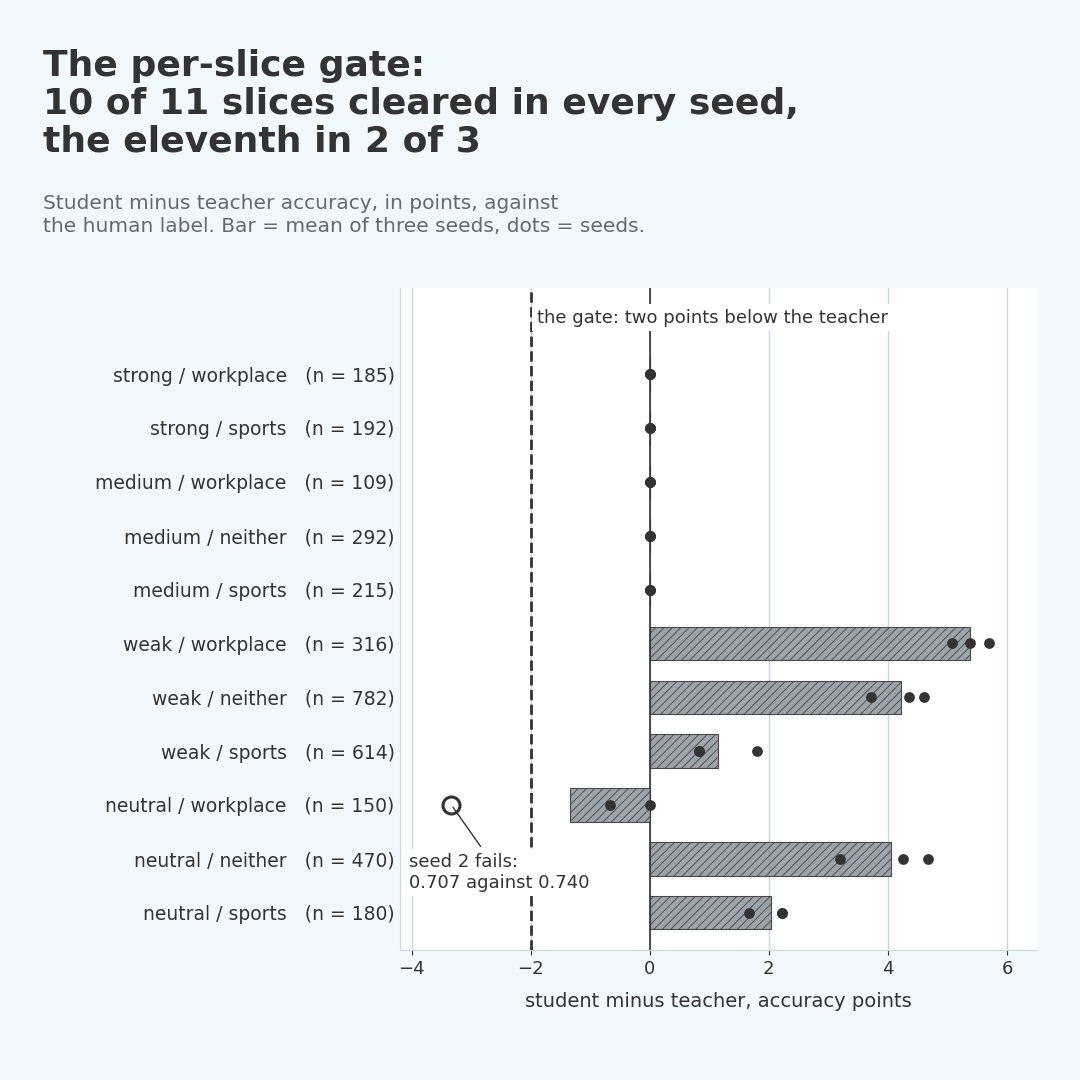
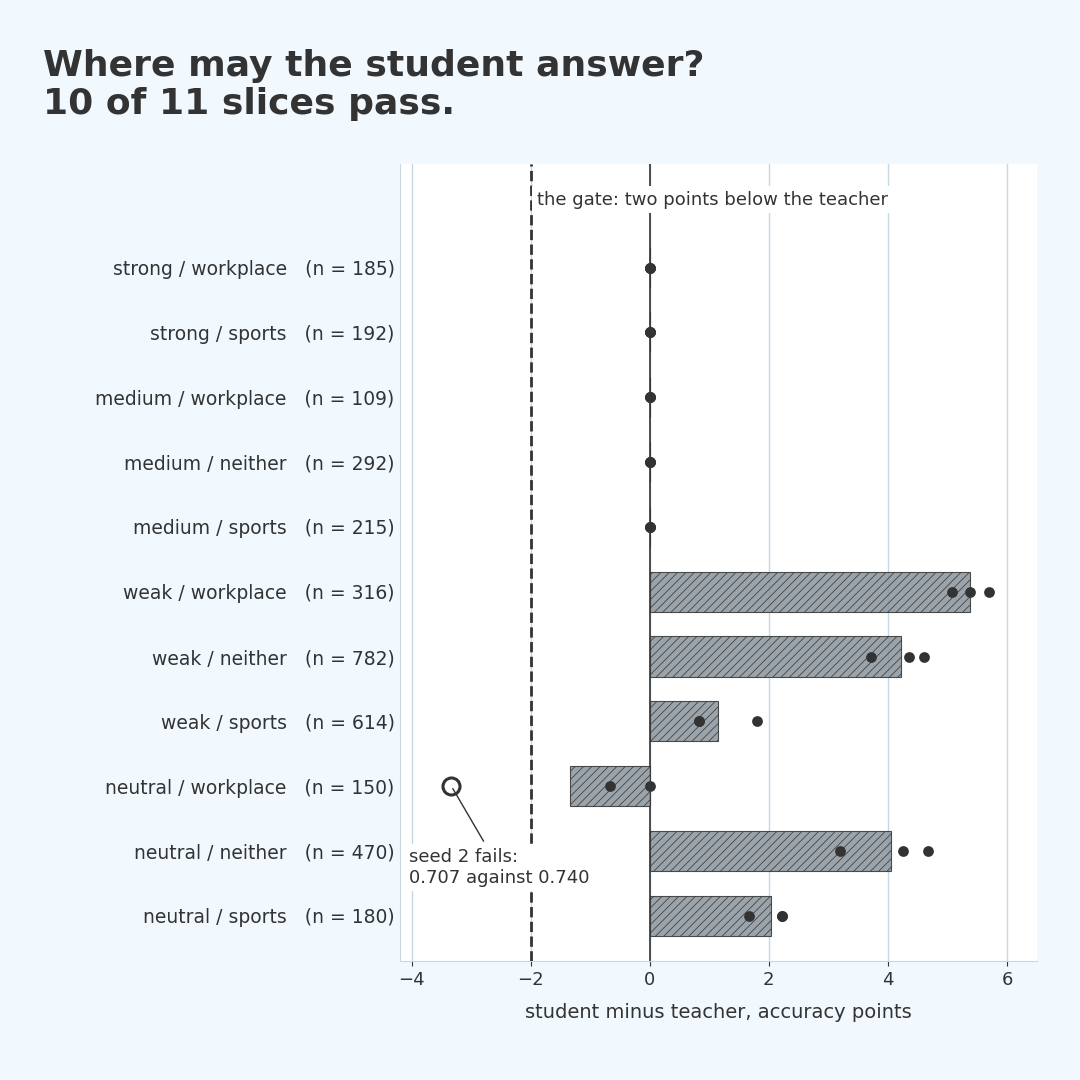
Pin site content: simplified Jev series charts; refresh social images

diff --git a/scripts/generate-jev-vs-laya-charts.py b/scripts/generate-jev-vs-laya-charts.py
@@ -104,6 +104,7 @@ def style(engine_colour, method):
 
 
 def new_figure(layout, title, subtitle, nrows=1, ncols=1):
+    subtitle = ""   # one line to land on social; captions carry the rest
     size, scale, orient, footer = LAYOUTS[layout]
     if orient == "h" and ncols > 1:
         nrows, ncols = ncols, 1
@@ -126,7 +127,7 @@ def new_figure(layout, title, subtitle, nrows=1, ncols=1):
              fontsize=13.5 * scale, color=MUTED, va="top", ha="left", linespacing=1.3)
     if footer:
         pass
-    sub_lines = wrap(subtitle, wrap_at + 24).count("\n") + 1
+    sub_lines = 0
     top = (0.965 - lines * (0.036 if tall else 0.058) - 0.008
            - sub_lines * (0.021 if tall else 0.03) - (0.035 if tall else 0.05))
     return fig, axes, scale, orient, top
@@ -181,24 +182,33 @@ def legend(fig, scale, y, entries=("alone", "layer", "tuned"), ncol=3, x=0.06):
 
 
 def reclaim_bottom(fig, floor=0.11):
-    """Footers are gone (captions carry sources), so stretch the panels down into that space.
-    A figure-level legend under the panels keeps its place and raises the floor."""
+    """Subtitles and footers are gone (the article captions carry detail), so stretch the panels
+    into that space: up to just under the title block, down to just above the bottom edge.
+    A figure-level legend keeps its place and moves the limit."""
     axes = [a for a in fig.axes if a.get_visible()]
     if not axes:
         return
-    def anchor_y(legend):
-        box = legend.get_bbox_to_anchor().transformed(fig.transFigure.inverted())
-        return box.y0
-    if any(anchor_y(l) < 0.3 for l in fig.legends):
-        floor = max(floor, 0.2)   # a legend under the panels keeps its place
+    fig.canvas.draw()
+    inv = fig.transFigure.inverted()
+    ceiling = 1.0
+    for item in list(fig.texts) + list(fig.legends):
+        if hasattr(item, "get_text") and not item.get_text().strip():
+            continue
+        box = item.get_window_extent().transformed(inv)
+        if box.y0 > 0.5:
+            ceiling = min(ceiling, box.y0)
+        elif box.y1 < 0.3 and item in fig.legends:
+            floor = max(floor, box.y1 + 0.115)   # room for ticks and the axis label above it
+    titled = any(a.get_title(loc=loc) for a in axes for loc in ("left", "center", "right"))
+    ceiling -= 0.075 if titled else 0.04
     top = max(a.get_position().y1 for a in axes)
     low = min(a.get_position().y0 for a in axes)
-    if low <= floor + 0.01:
+    if ceiling <= low + 0.2:
         return
-    k = (top - floor) / (top - low)
+    k = (ceiling - floor) / (top - low)
     for a in axes:
         p = a.get_position()
-        a.set_position([p.x0, top - (top - p.y0) * k, p.width, p.height * k])
+        a.set_position([p.x0, ceiling - (top - p.y0) * k, p.width, p.height * k])
 
 
 def save(fig, name, layout):
@@ -239,12 +249,11 @@ def chart_paired(paired, arms, layout):
     gap1 = (paired[("jev", "layer")]["accuracy"] - paired[("laya", "layer")]["accuracy"]) * 100
     fig, axes, scale, orient, top = new_figure(
         layout,
-        f"The layer lifts both engines, and the gap widens from {gap0:.1f} to {gap1:.1f} points",
+        "Same feedback for both engines. Jev stays ahead.",
         "Held-out accuracy on the same 600 items. Same 140 labels, same refit points, same analyst "
         "proposal; only the engine that answers changes. One run; 600 items is about ±1.4 points.")
     ax = axes[0][0]
     bars(ax, orient, scale, paired_items(paired, "accuracy"), 0.5, 0.95, value_label="held-out accuracy")
-    legend(fig, scale, top + 0.012, entries=("alone", "layer"))
     footer = LAYOUTS[layout][3]
     note(fig, scale, "Source: Jev-Flywheel studies/laya_paired.jsonl. Axis starts at 0.5; the majority-class baseline is 0.566.",
          footer=footer)
@@ -255,14 +264,13 @@ def chart_paired(paired, arms, layout):
 def chart_calibration(paired, arms, layout):
     fig, axes, scale, orient, top = new_figure(
         layout,
-        "Both engines end well calibrated; Brier still favours Jev",
+        "Both engines end up well calibrated.",
         "Lower is better in both panels. Raw, Laya's calibration error was lower than Jev's on these 600 items. "
         "Brier rewards being confident and right, and Jev is right more often.",
         ncols=2)
     flat = list(axes.flat)
     bars(flat[0], orient, scale, paired_items(paired, "ece"), 0, 0.19, value_label="calibration error (ECE)")
     bars(flat[1], orient, scale, paired_items(paired, "brier"), 0, 0.23, value_label="Brier score")
-    legend(fig, scale, top + 0.012, entries=("alone", "layer"))
     footer = LAYOUTS[layout][3]
     note(fig, scale, "Source: Jev-Flywheel studies/laya_paired.jsonl, paper-600 rows, first and last version of each lineage.",
          footer=footer)
@@ -308,7 +316,7 @@ def chart_tiers(paired, arms, layout):
     tiers = ["strong", "medium", "weak", "neutral"]
     fig, axes, scale, orient, top = new_figure(
         layout,
-        "Fine-tuned Laya carries the easy tiers; DistilBERT is best on the neutral tier",
+        "Who wins depends on the difficulty.",
         "Held-out accuracy by difficulty tier, 600 items (72 strong, 106 medium, 277 weak, 145 neutral). "
         "Fine-tuned systems are 3-seed means. Tier cells are small; read gaps of a few points as noise.")
     ax = axes[0][0]
@@ -358,7 +366,7 @@ def chart_curve(paired, arms, layout):
               "sizes on disk so far; still running: " + ", ".join(f"{n:,}" for n in pending))
     fig, axes, scale, orient, top = new_figure(
         layout,
-        "At 140 random labels, fine-tuned Laya is already above both flywheel results",
+        "More labels help, then it flattens near 94%.",
         f"Arm C: full fine-tune on random pool draws, 3 seeds per size (dots), mean (line). Held-out accuracy, 600 items. "
         f"Showing {status}.")
     ax = axes[0][0]

diff --git a/scripts/generate-distilling-jev-into-a-classifier-charts.py b/scripts/generate-distilling-jev-into-a-classifier-charts.py
@@ -80,6 +80,7 @@ def mean(values):
 
 def new_figure(layout, title, subtitle, nrows=1, ncols=1, panel_titles=False, **grid):
     """A figure with a left-aligned title block; the axes start below it however many lines it has."""
+    subtitle = ""   # one line to land on social; captions carry the rest
     size, scale, footer = LAYOUTS[layout]
     fig, axes = plt.subplots(nrows, ncols, figsize=size, dpi=DPI, squeeze=False, **grid)
     fig.patch.set_facecolor(BACKGROUND)
@@ -91,7 +92,6 @@ def new_figure(layout, title, subtitle, nrows=1, ncols=1, panel_titles=False, **
     y -= (title.count("\n") + 1) * title_size * 1.22 / points + 0.012
     fig.text(0.04, y, subtitle, fontsize=sub_size, color=MUTED, va="top", ha="left",
              linespacing=1.3)
-    y -= (subtitle.count("\n") + 1) * sub_size * 1.4 / points
     y -= (0.075 if panel_titles else 0.035)
     fig.subplots_adjust(left=0.08, right=0.96, top=y, bottom=0.12 if not footer else 0.10)
     for ax in axes.flat:
@@ -112,24 +112,33 @@ def wrap_title(text, layout):
 
 
 def reclaim_bottom(fig, floor=0.11):
-    """Footers are gone (captions carry sources), so stretch the panels down into that space.
-    A figure-level legend under the panels keeps its place and raises the floor."""
+    """Subtitles and footers are gone (the article captions carry detail), so stretch the panels
+    into that space: up to just under the title block, down to just above the bottom edge.
+    A figure-level legend keeps its place and moves the limit."""
     axes = [a for a in fig.axes if a.get_visible()]
     if not axes:
         return
-    def anchor_y(legend):
-        box = legend.get_bbox_to_anchor().transformed(fig.transFigure.inverted())
-        return box.y0
-    if any(anchor_y(l) < 0.3 for l in fig.legends):
-        floor = max(floor, 0.2)   # a legend under the panels keeps its place
+    fig.canvas.draw()
+    inv = fig.transFigure.inverted()
+    ceiling = 1.0
+    for item in list(fig.texts) + list(fig.legends):
+        if hasattr(item, "get_text") and not item.get_text().strip():
+            continue
+        box = item.get_window_extent().transformed(inv)
+        if box.y0 > 0.5:
+            ceiling = min(ceiling, box.y0)
+        elif box.y1 < 0.3 and item in fig.legends:
+            floor = max(floor, box.y1 + 0.115)   # room for ticks and the axis label above it
+    titled = any(a.get_title(loc=loc) for a in axes for loc in ("left", "center", "right"))
+    ceiling -= 0.075 if titled else 0.04
     top = max(a.get_position().y1 for a in axes)
     low = min(a.get_position().y0 for a in axes)
-    if low <= floor + 0.01:
+    if ceiling <= low + 0.2:
         return
-    k = (top - floor) / (top - low)
+    k = (ceiling - floor) / (top - low)
     for a in axes:
         p = a.get_position()
-        a.set_position([p.x0, top - (top - p.y0) * k, p.width, p.height * k])
+        a.set_position([p.x0, ceiling - (top - p.y0) * k, p.width, p.height * k])
 
 
 def save(fig, name, layout):
@@ -149,8 +158,7 @@ def save(fig, name, layout):
 
 def chart_students(distill, layout):
     stacked = layout in ("portrait", "square")
-    title = wrap_title("Scored against the human label, | both distilled students beat "
-                       "their teacher", layout)
+    title = wrap_title("The small student beat || its hosted teacher.", layout)
     fig, axes, s = new_figure(
         layout, title,
         "3,521 held-out items, three seeds each (dot = mean, bar = min to max). Students are "
@@ -229,8 +237,7 @@ def chart_gate(distill, layout):
     slices.sort(key=lambda k: (order[k.split("/")[0]], k))
     topic = {"sports_or_recreation": "sports", "business_or_workplace": "workplace",
              "something_else": "neither"}
-    title = wrap_title("The per-slice gate: || 10 of 11 slices cleared in every seed, | the "
-                       "eleventh in 2 of 3", layout)
+    title = wrap_title("Where may the student answer? || 10 of 11 slices pass.", layout)
     fig, axes, s = new_figure(
         layout, title,
         "Student accuracy minus teacher accuracy, in points, against the human label. "
@@ -282,8 +289,7 @@ def chart_cascade(distill, layout):
     teacher = rows[0]["teacher_acc_vs_human"]
     casc = [mean([r["cascade"][t]["cascade_acc"] for r in rows]) for t in thresholds]
     cover = [mean([r["cascade"][t]["coverage"] for r in rows]) for t in thresholds]
-    title = wrap_title("The cascade never beat the student alone: | handing items back to "
-                       "the teacher cost accuracy", layout)
+    title = wrap_title("Handing hard items back to || the teacher didn't help.", layout)
     fig, axes, s = new_figure(
         layout, title,
         "Student answers when its calibrated confidence clears the threshold; the teacher takes "
@@ -331,8 +337,7 @@ def chart_label_source(distill, arm_d, layout):
         title = "Same 140 human labels, same DistilBERT:\n0.828 trained on them, 0.912 distilled"
         subtitle = "Accuracy against the human label on 3,521 held-out items, three seeds each"
     else:
-        title = wrap_title("Same 140 human labels, || same DistilBERT: | 0.828 trained on them, || "
-                           "0.912 distilled through the flywheel", layout)
+        title = wrap_title("Same 140 human labels. || Distilling beats training on them.", layout)
         subtitle = ("Accuracy against the human label on the same 3,521 held-out items. Bar = mean "
                     "of three seeds, whisker = min to max." if layout == "wide" else
                     "Accuracy against the human label, 3,521 held-out items.\nBar = mean of three "

diff --git a/scripts/generate-fine-tuning-jev-charts.py b/scripts/generate-fine-tuning-jev-charts.py
@@ -142,6 +142,7 @@ def scale(layout):
 
 
 def headline(fig, layout, title, subtitle):
+    subtitle = ""   # one line to land on social; captions carry the rest
     k = scale(layout)
     top = {"landscape": 0.945, "portrait": 0.962, "square": 0.955, "cover": 0.93}[layout]
     gap = {"landscape": 0.058, "portrait": 0.058, "square": 0.068, "cover": 0.08}[layout]
@@ -168,24 +169,33 @@ def footer(fig, layout, note):
 
 
 def reclaim_bottom(fig, floor=0.11):
-    """Footers are gone (captions carry sources), so stretch the panels down into that space.
-    A figure-level legend under the panels keeps its place and raises the floor."""
+    """Subtitles and footers are gone (the article captions carry detail), so stretch the panels
+    into that space: up to just under the title block, down to just above the bottom edge.
+    A figure-level legend keeps its place and moves the limit."""
     axes = [a for a in fig.axes if a.get_visible()]
     if not axes:
         return
-    def anchor_y(legend):
-        box = legend.get_bbox_to_anchor().transformed(fig.transFigure.inverted())
-        return box.y0
-    if any(anchor_y(l) < 0.3 for l in fig.legends):
-        floor = max(floor, 0.2)   # a legend under the panels keeps its place
+    fig.canvas.draw()
+    inv = fig.transFigure.inverted()
+    ceiling = 1.0
+    for item in list(fig.texts) + list(fig.legends):
+        if hasattr(item, "get_text") and not item.get_text().strip():
+            continue
+        box = item.get_window_extent().transformed(inv)
+        if box.y0 > 0.5:
+            ceiling = min(ceiling, box.y0)
+        elif box.y1 < 0.3 and item in fig.legends:
+            floor = max(floor, box.y1 + 0.115)   # room for ticks and the axis label above it
+    titled = any(a.get_title(loc=loc) for a in axes for loc in ("left", "center", "right"))
+    ceiling -= 0.075 if titled else 0.04
     top = max(a.get_position().y1 for a in axes)
     low = min(a.get_position().y0 for a in axes)
-    if low <= floor + 0.01:
+    if ceiling <= low + 0.2:
         return
-    k = (top - floor) / (top - low)
+    k = (ceiling - floor) / (top - low)
     for a in axes:
         p = a.get_position()
-        a.set_position([p.x0, top - (top - p.y0) * k, p.width, p.height * k])
+        a.set_position([p.x0, ceiling - (top - p.y0) * k, p.width, p.height * k])
 
 
 def save(fig, name, layout):
@@ -440,12 +450,6 @@ def chart_finetune(layout):
         ece_ax.set_yticklabels([])
     acc_ax.set_title("Accuracy", fontsize=15 * k, color=INK, loc="left", pad=10)
     ece_ax.set_title("Calibration error", fontsize=15 * k, color=INK, loc="left", pad=10)
-    fig.legend(handles=[
-        Patch(facecolor=GRAY_TINT, edgecolor=GRAY, label="engine alone"),
-        Patch(facecolor=GRAY, edgecolor=GRAY, label="with the flywheel layer"),
-        Patch(facecolor=PANEL, edgecolor=GRAY, hatch="///", label="gradient fine-tuned"),
-    ], loc="lower center", bbox_to_anchor=(0.5, LEGEND_Y[layout]), ncol=3, fontsize=12 * k,
-        frameon=False)
     wrap = "\n" if stacked else " "
     headline(fig, layout,
              f"Fine-tuning Laya wins accuracy.{wrap}The layer keeps calibration.",
